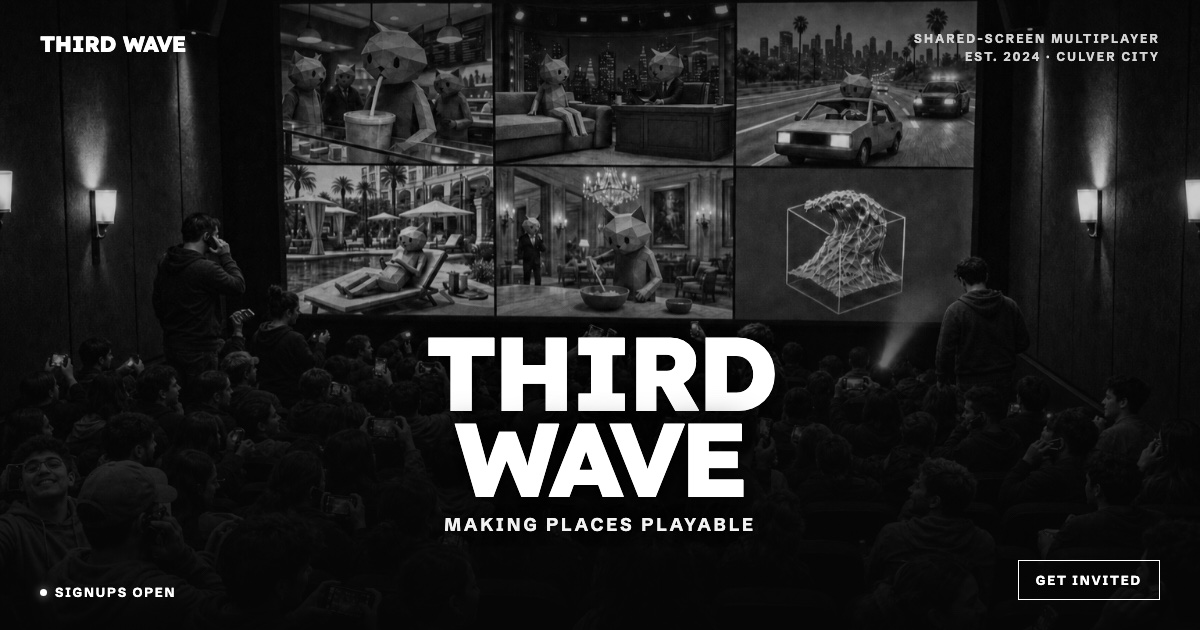
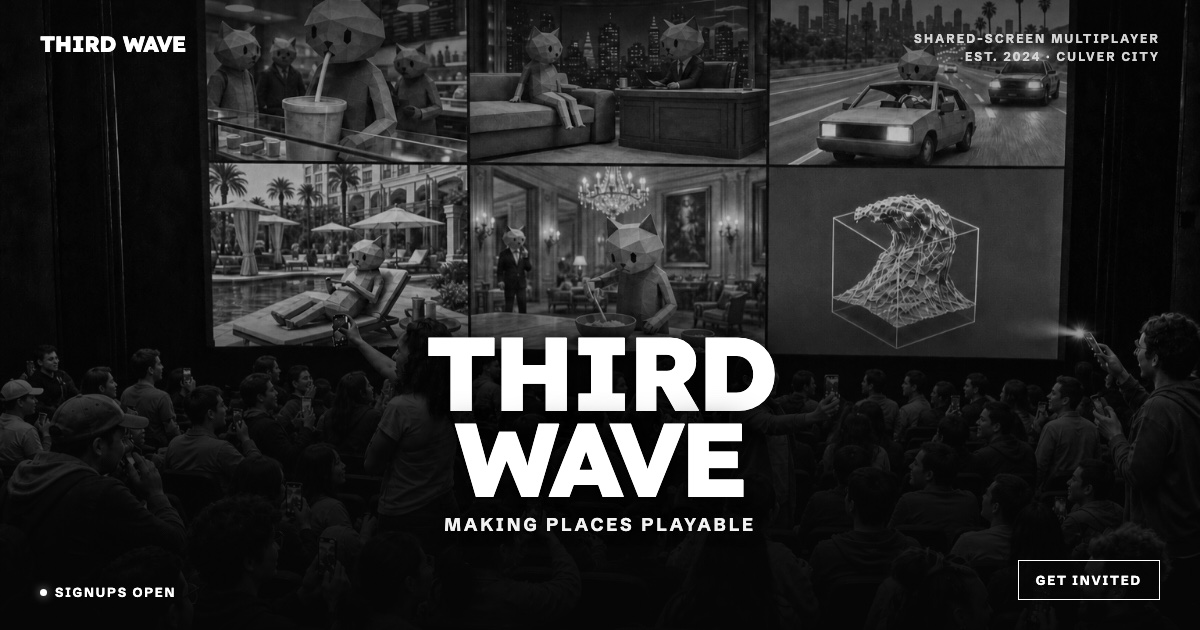
althome: final refined hero plate + OG card

diff --git a/public/althome/index.html b/public/althome/index.html
@@ -130,7 +130,7 @@
 <body>
   <!-- PLAYERS / HERO -->
   <section class="hero">
-    <img src="gen/hero-act-4.jpg" alt="An intimate cinema of people playing with their phones as controllers in varied ways, facing a six-panel screen of deadpan low-poly 3D cats living absurd celebrity lives — a smoothie bar, a talk-show set, an LA freeway chase, a hotel pool, a mansion — with the Third Wave wave-cube logo as one panel">
+    <img src="gen/hero-final.jpg" alt="An intimate cinema of people playing with their phones as controllers in varied ways — filming, texting, aiming, tilting — facing a six-panel screen of deadpan low-poly 3D cats living absurd celebrity lives: a smoothie bar, a talk-show set, an LA freeway chase, a hotel pool, a mansion, and the Third Wave wave-cube logo">
     <div class="scrim"></div>
     <div class="ov">
       <div class="top">

diff --git a/public/althome/og-card.html b/public/althome/og-card.html
@@ -23,7 +23,7 @@
 </style></head>
 <body>
   <div class="card">
-    <img src="gen/hero-act-4.jpg" alt="">
+    <img src="gen/hero-final.jpg" alt="">
     <div class="scrim"></div>
     <div class="ov">
       <div class="top">